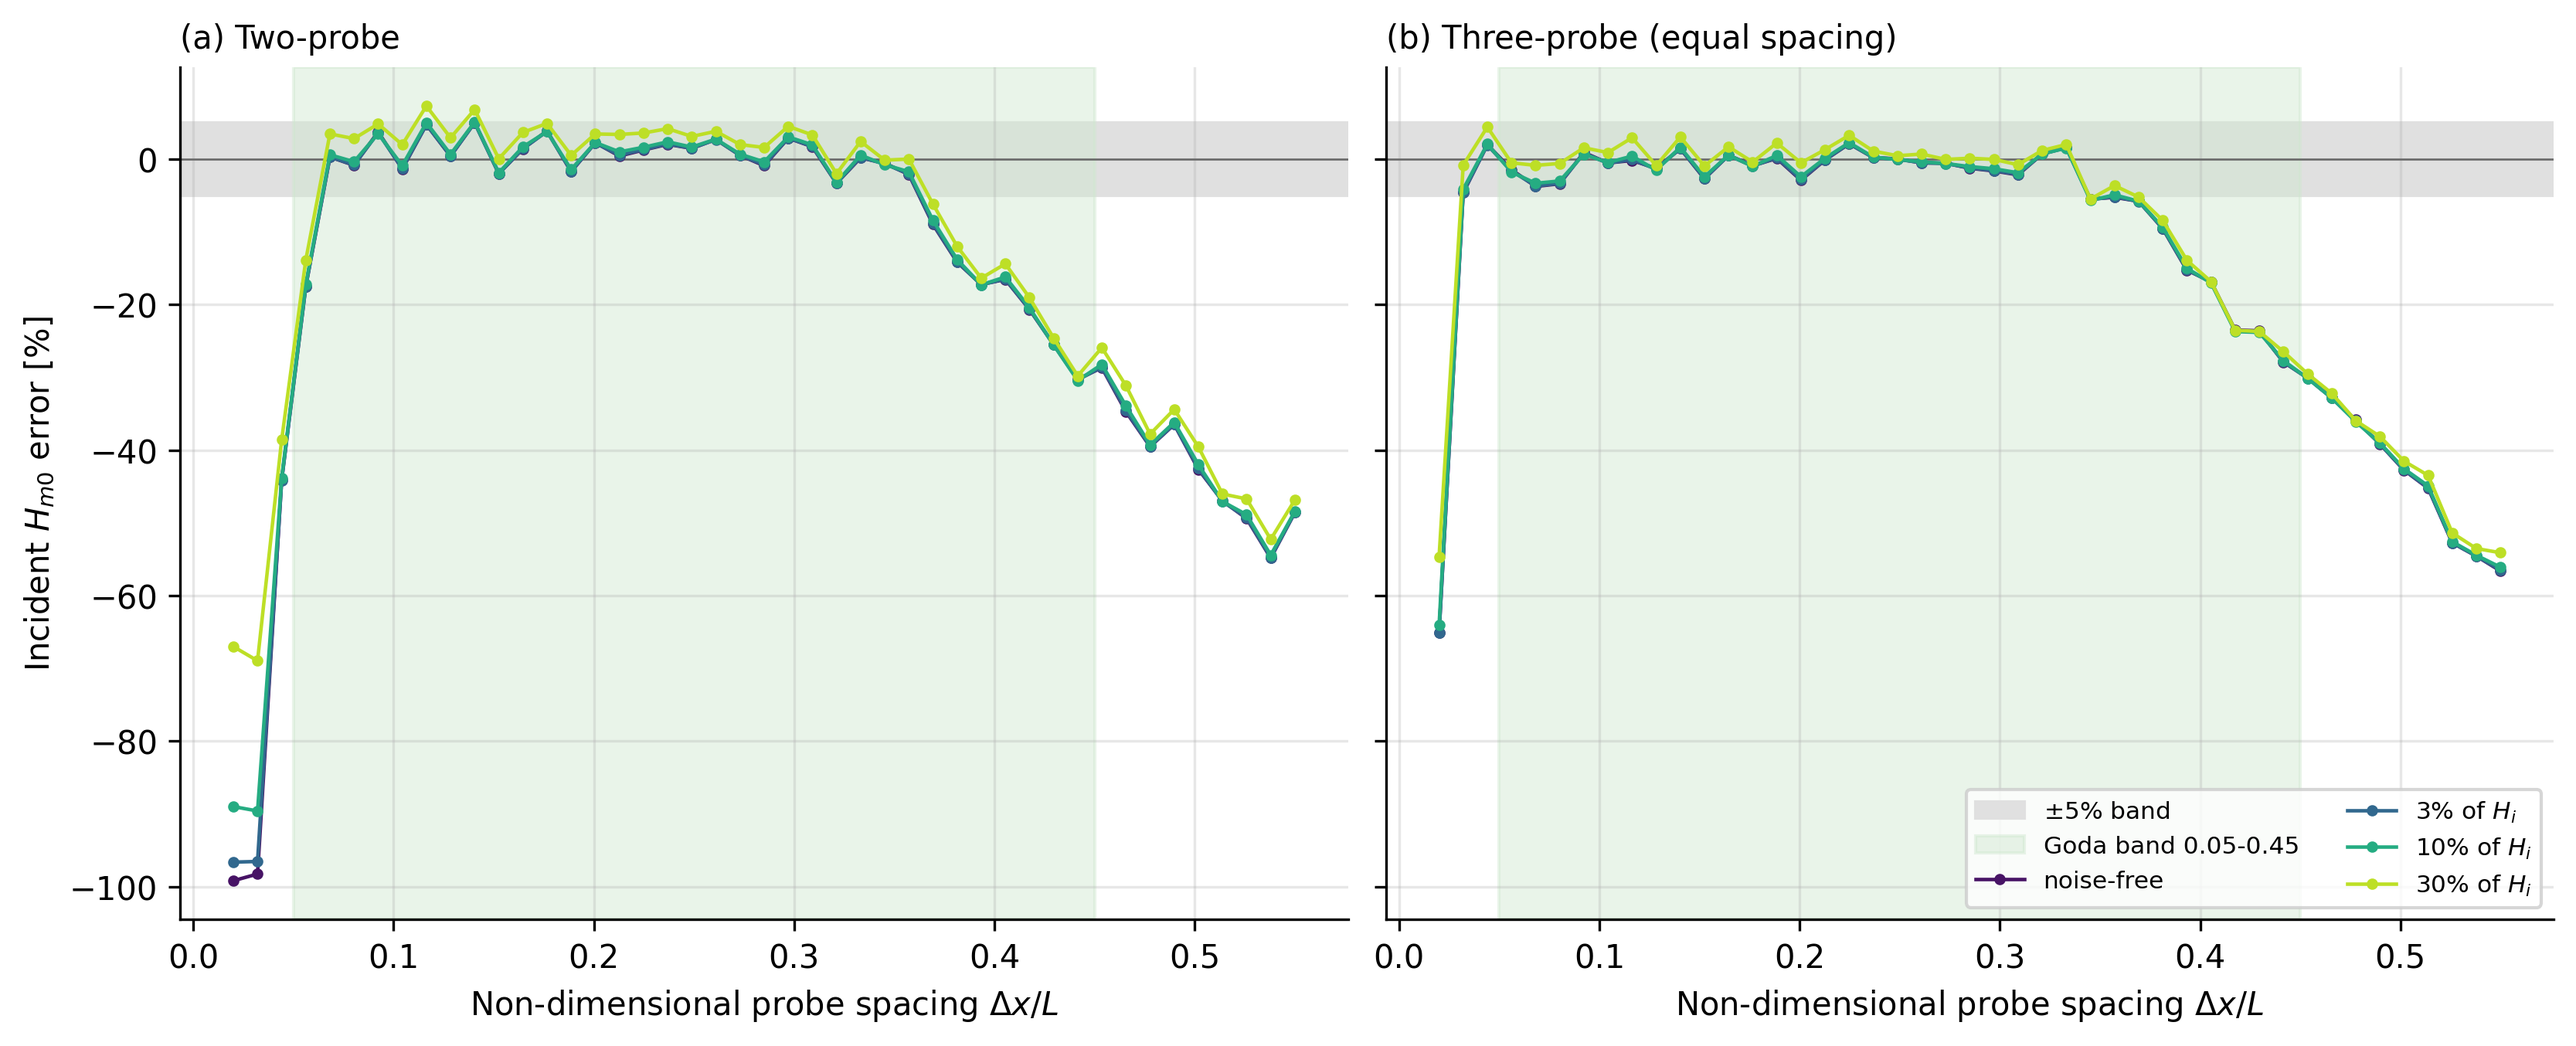
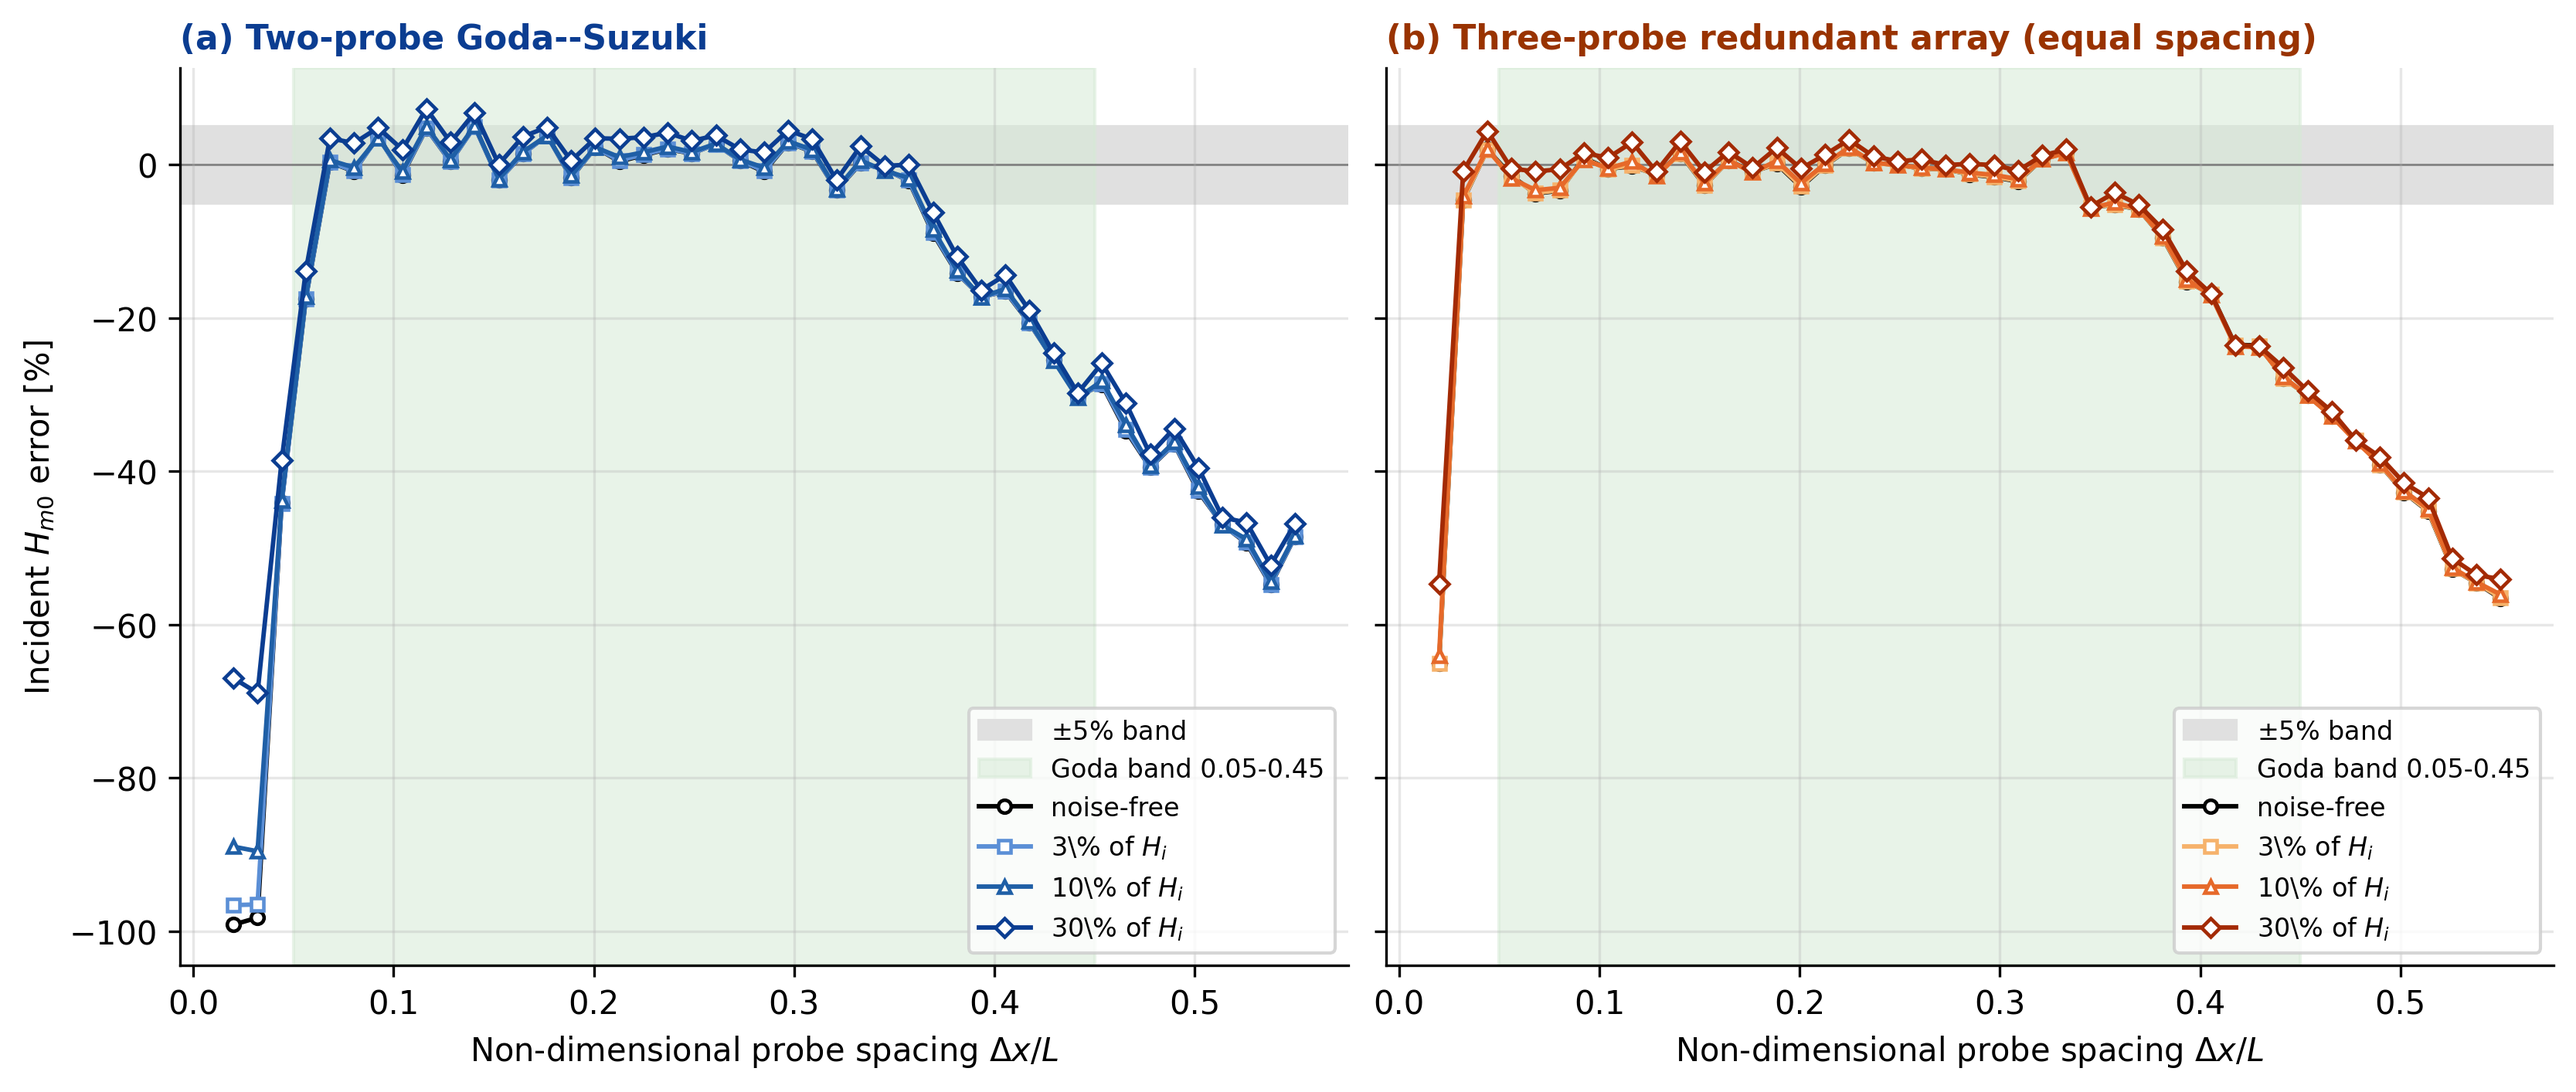
Fig 4: distinct colour family per method (blue 2-probe, orange/red 3-probe)
The previous viridis palette made the two panels look identical at a
glance; reviewers might ask what separates two-probe from three-probe.
Each method now uses its own colour family so the method identity is
visually obvious before reading the title:

  Panel (a) two-probe Goda-Suzuki -- blue family (light to dark navy).
  Panel (b) three-probe redundant array -- orange/red family (tan to
            dark red).

Within each panel the four noise curves are differentiated by shade
plus marker shape (circle / square / triangle / diamond), and the
noise-free curve is plotted in black in both panels so the two methods
can still be compared at zero noise.

No data changes; the underlying sweep and CSV are unchanged. The
overlap of curves inside the Goda band remains the scientific point of
the figure -- it is the spacing filter doing its job -- but the
between-method distinction is now unambiguous.

diff --git a/scripts/spacing_sweep.py b/scripts/spacing_sweep.py
@@ -163,32 +163,62 @@ def main():
     print(f"Wrote {csv_path}")
 
     # ---- Combined two-panel figure: 2P (left) + 3P (right) -------------
-    r = [d["dx_over_L"] for d in two_runs[0]]
-    cmap = plt.get_cmap("viridis")
-    fig, axes = plt.subplots(1, 2, figsize=(11.0, 4.4),
+    # Each method gets its own colour family so the method identity is
+    # visually obvious even before reading the title; within each panel
+    # the noise level is encoded by line shade plus marker shape.
+    panel_styles = {
+        "a": {  # two-probe — blue family
+            "title_color": "#0b3d91",
+            "noise": {
+                0:  {"color": "#000000", "marker": "o", "label": "noise-free"},
+                3:  {"color": "#5b8fd6", "marker": "s", "label": r"3\% of $H_i$"},
+                10: {"color": "#1f5fa6", "marker": "^", "label": r"10\% of $H_i$"},
+                30: {"color": "#0b3d91", "marker": "D", "label": r"30\% of $H_i$"},
+            },
+        },
+        "b": {  # three-probe — orange/red family
+            "title_color": "#993300",
+            "noise": {
+                0:  {"color": "#000000", "marker": "o", "label": "noise-free"},
+                3:  {"color": "#f6b26b", "marker": "s", "label": r"3\% of $H_i$"},
+                10: {"color": "#e6692a", "marker": "^", "label": r"10\% of $H_i$"},
+                30: {"color": "#a32a04", "marker": "D", "label": r"30\% of $H_i$"},
+            },
+        },
+    }
+
+    fig, axes = plt.subplots(1, 2, figsize=(11.0, 4.6),
                              constrained_layout=True, sharey=True)
-    for ax, runs, title in zip(
+    for ax, runs, title, key in zip(
         axes,
         (two_runs, three_runs),
-        ("(a) Two-probe", "(b) Three-probe (equal spacing)"),
+        ("(a) Two-probe Goda--Suzuki",
+         "(b) Three-probe redundant array (equal spacing)"),
+        ("a", "b"),
     ):
-        ax.axhspan(-5, 5, color="0.88", label=r"$\pm 5\%$ band")
-        ax.axvspan(GODA_LO, GODA_HI, color="#cfe8cf", alpha=0.45,
-                   label=f"Goda band {GODA_LO:g}-{GODA_HI:g}")
-        ax.axhline(0.0, color="0.4", linewidth=0.6)
-        for k, pct in enumerate(noise_levels_pct):
-            color = cmap(0.05 + 0.85 * k / max(1, len(noise_levels_pct) - 1))
-            label = "noise-free" if pct == 0 else f"{pct}% of $H_i$"
+        pstyle = panel_styles[key]
+        ax.axhspan(-5, 5, color="0.88", label=r"$\pm 5\%$ band",
+                   zorder=0)
+        ax.axvspan(GODA_LO, GODA_HI, color="#d6ead6", alpha=0.55,
+                   label=f"Goda band {GODA_LO:g}-{GODA_HI:g}", zorder=0)
+        ax.axhline(0.0, color="0.4", linewidth=0.6, zorder=0)
+        for pct in noise_levels_pct:
+            ns = pstyle["noise"][pct]
             ax.plot([d["dx_over_L"] for d in runs[pct]],
                     [d["err_Hi"] for d in runs[pct]],
-                    "-o", ms=2.5, lw=1.1, color=color, label=label)
+                    linestyle="-", marker=ns["marker"], ms=4.0,
+                    lw=1.4, color=ns["color"], label=ns["label"],
+                    markeredgecolor=ns["color"],
+                    markerfacecolor="white",
+                    markeredgewidth=1.1, zorder=3)
         ax.set_xlabel(r"Non-dimensional probe spacing $\Delta x / L$")
-        ax.set_title(title, loc="left", fontsize=10)
+        ax.set_title(title, loc="left", fontsize=10.5,
+                     color=pstyle["title_color"], fontweight="bold")
         ax.grid(alpha=0.3)
         for s in ("top", "right"):
             ax.spines[s].set_visible(False)
+        ax.legend(fontsize=8, loc="lower right", ncol=1, frameon=True)
     axes[0].set_ylabel(r"Incident $H_{m0}$ error [%]")
-    axes[1].legend(fontsize=7.5, loc="lower right", ncol=2, frameon=True)
     fig_path = os.path.join(fig_dir, "spacing_sensitivity.png")
     fig.savefig(fig_path, dpi=300, bbox_inches="tight")
     print(f"Wrote {fig_path}\n")
